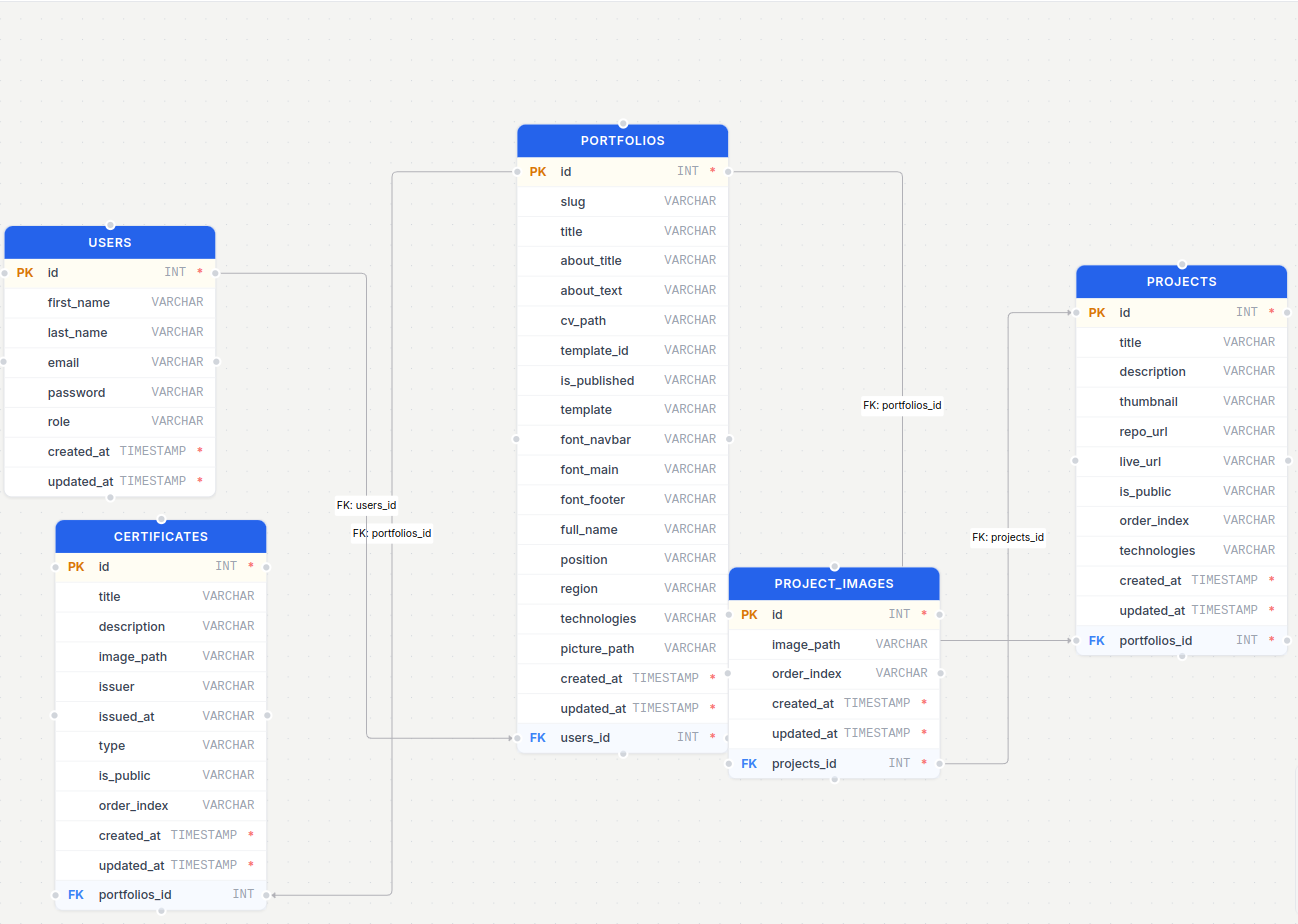
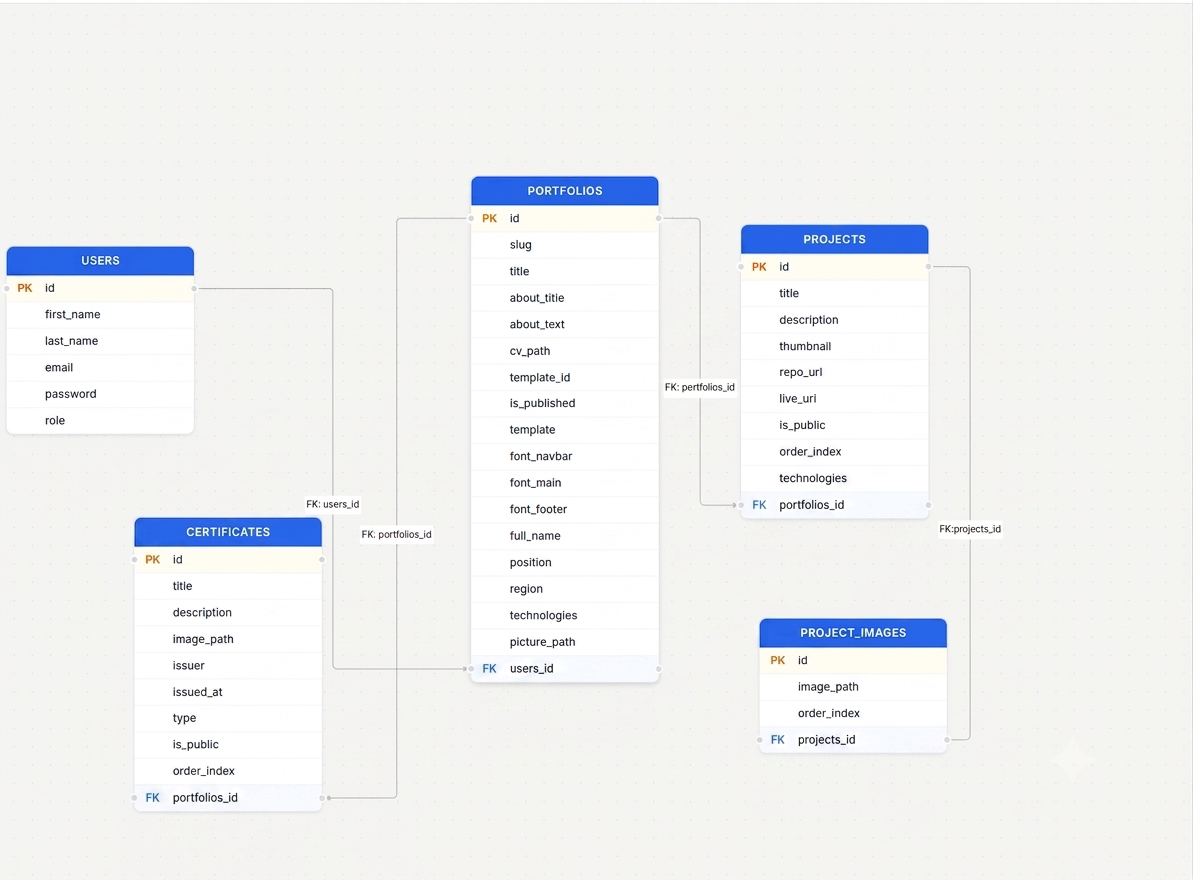
fix

diff --git a/src/slides/CP4Slide.jsx b/src/slides/CP4Slide.jsx
@@ -20,7 +20,7 @@ export default function CP4Slide() {
         <Slide background="linear-gradient(135deg, #183d3d 0%, #93b1a6 100%)">
             <div className="flex items-center gap-3 mb-5">
                 <span className="bg-green-500/20 text-green-400 border border-green-400/30 px-3 py-1 rounded-full text-sm font-bold">CP4</span>
-                <h2 className="text-3xl font-bold text-white">Interfaces dynamiques — rendu du template <span className='text-sm'>dossier projet — p. 31-33</span></h2>
+                <h5 className="text-3xl font-bold text-white">Interfaces dynamiques — rendu du template <span className='text-sm'>dossier projet — p. 31-33</span></h5>
             </div>
             <div className="grid grid-cols-2 gap-5 text-left text-sm">
                 <div className="bg-white/5 border border-white/10 p-3">
@@ -51,14 +51,54 @@ switch (template) {
 }`}
                     </Code>
                 </div>
-                <div className="flex flex-col gap-3">
+
+                <div className="bg-white/5 border border-white/10 p-3">
+                    <p className="text-purple-400 font-semibold mb-2">API publique — <code>getPortfolioThree</code></p>
+                    <Code language="jsx" lineNumbers="1-8|9-14|15-34">
+{`async function getPortfolioThree(req, res) {
+    const { slug } = req.params;
+
+    try {
+        const portfolio = await Portfolio.findOne({
+            where: { slug },
+            attributes: ["id", "template", "title", ..., "picture_path"],
+        });
+        if (!portfolio) {
+            return res.status(404).json({ error: "Portfolio not found" });
+        }
+        if (!portfolio.is_published) {
+            return res.status(403).json({ error: "Portfolio not published" });
+        }
+        const certificates = await Certificate.findAll({
+            where: {
+                portfolio_id: portfolio.id,
+                is_public: 1,
+            },
+        });
+        const projects = await Project.findAll({
+            where: { portfolio_id: portfolio.id },
+            include: [{ model: ProjectImage, as: "images" }],
+        });
+        res.status(200).json({
+            portfolio: portfolio,
+            certificates: certificates,
+            projects: projects,
+        });
+    } catch (error) {
+        res.status(500).json({ error: "Failed to fetch template" });
+    }
+}`}
+                    </Code>
+                </div>
+
+                <div className="col-span-2 grid grid-cols-4 gap-2">
                     {[
                         ['1', 'useParams', 'React Router extrait le slug de l’URL /u/:slug'],
                         ['2', 'useQuery', 'TanStack Query interroge l’API et met la réponse en cache'],
                         ['3', 'États', 'isPending / isError / success → feedback utilisateur immédiat'],
                         ['4', 'switch', 'Rendu conditionnel du template choisi par le client (1, 2 ou 3)'],
                     ].map(([n, title, desc]) => (
-                        <div key={n} className="bg-white/5 border border-white/10 p-1 flex items-start gap-3">
+                        <div key={n} className="bg-white/5 border border-white/10 p-1 flex items-start gap-2">
                             <span className="w-6 h-6 bg-green-500/30 text-green-300 rounded-full flex items-center justify-center text-xs font-bold shrink-0">{n}</span>
                             <div>
                                 <p className="text-black text-lg font-semibold">{title}</p>
@@ -66,7 +106,6 @@ switch (template) {
                             </div>
                         </div>
                     ))}
-
                 </div>
             </div>
             <aside className="notes">

diff --git a/src/slides/CP7Slide.jsx b/src/slides/CP7Slide.jsx
@@ -28,13 +28,19 @@ if (!roles.includes(user.role))
                     <div className="bg-white/5 border border-white/10  p-4">
                         <p className="text-blue-400 font-semibold mb-2">🖼 Upload & Sharp</p>
                         <Code language="js">
-{`await sharp(file.buffer)
-  .resize(800, 600, {
-    fit: "inside",
-    withoutEnlargement: true
-  })
-  .jpeg({ quality: 80 })
-  .toFile(uploadPath);`}
+{`// Configuration Multer
+const upload = multer({ 
+    storage: multer.memoryStorage(),
+    limits: { fileSize: 5 * 1024 * 1024 
+} });
+
+// Traitement Sharp avant écriture disque
+await sharp(picture.buffer)
+    .resize(600, 800, { 
+        fit: "inside", withoutEnlargement: true 
+    })
+    .jpeg({ quality: 80 })
+    .toFile(uploadPath);`}
                         </Code>
                     </div>
                 </div>

diff --git a/src/slides/JeuEssai.jsx b/src/slides/JeuEssai.jsx
@@ -46,7 +46,7 @@ Cahier de tests complet en annexe du dossier (page 48).`;
         <Slide background="linear-gradient(135deg, #183d3d 0%, #93b1a6 100%)">
             <div className="flex items-center gap-3 mb-5">
                 <span className="bg-cyan-500/20 text-cyan-400 border border-cyan-400/30 px-3 py-1 rounded-full text-sm font-bold">Tests</span>
-                <h2 className="text-3xl font-bold text-white">Jeu d'essai — création d'un projet <span className='text-sm'>dossier projet — p. 36</span></h2>
+                <h2 className="text-3xl font-bold text-white">Cahier des tests — création d'un projet <span className='text-sm'>dossier projet — p. 36</span></h2>
             </div>
             <div className="text-left text-xs">
                 <table className="w-full border-collapse">

diff --git a/src/slides/CP5.1Slide.jsx b/src/slides/CP5.1Slide.jsx
@@ -30,11 +30,8 @@ Points notables du schéma :
                     <p className="text-6xl font-extrabold text-black">MCD <span className="text-sm font-semibold">dossier — p. 17 · annexe p. 43</span></p>
                 </div>
                 <div className='absolute left-10 top-25 flex items-center gap-2'>
-                    <p className='text-sm pl-10 text-left text-black'>Modèle Conceptuel des Données</p>
-                    
+                    <p className='text-sm pl-10 text-left text-black'>Modèle Conceptuel des Données</p>                    
                 </div>
-                
-                
             </div>
             
             
